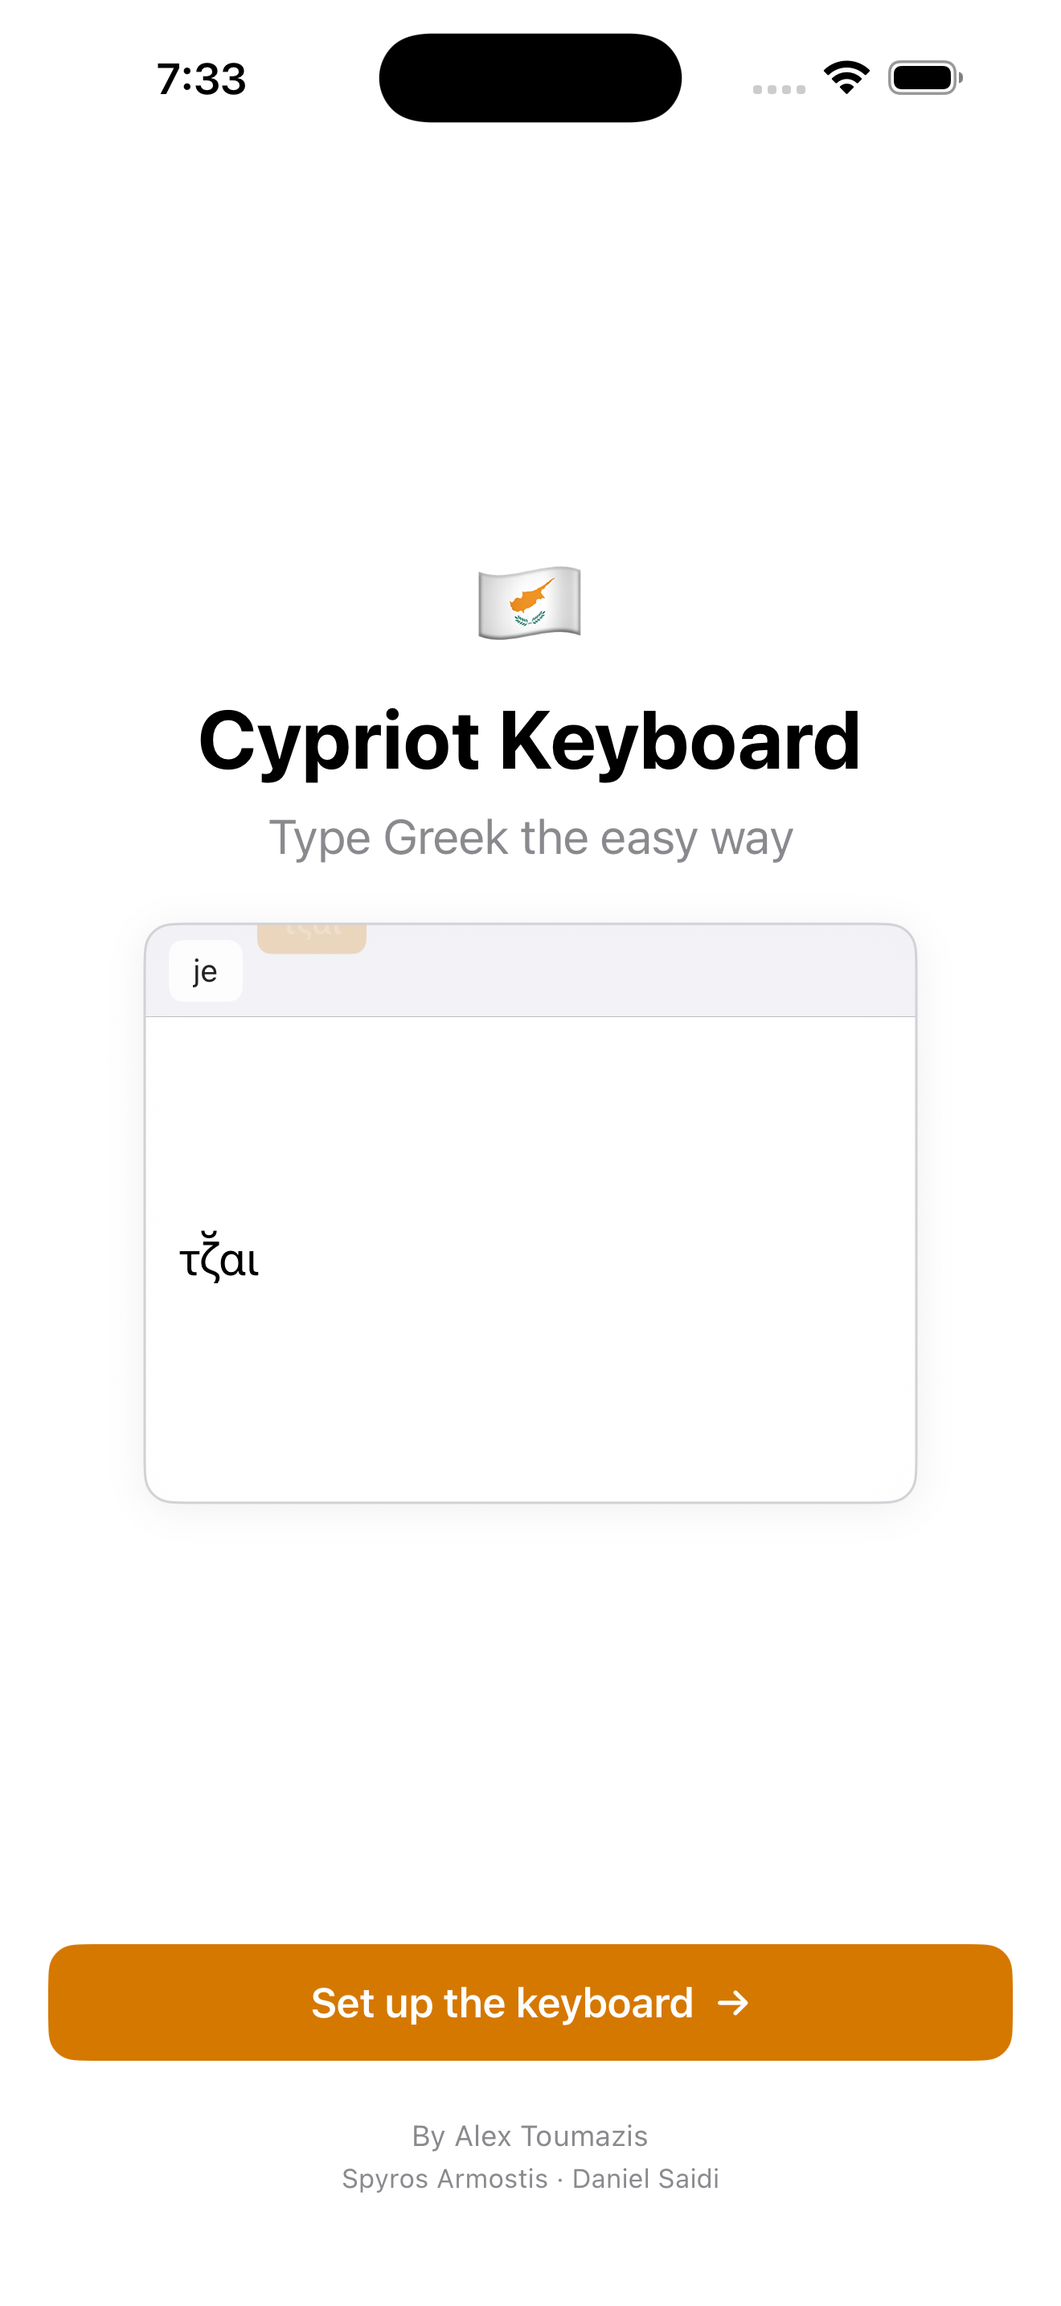
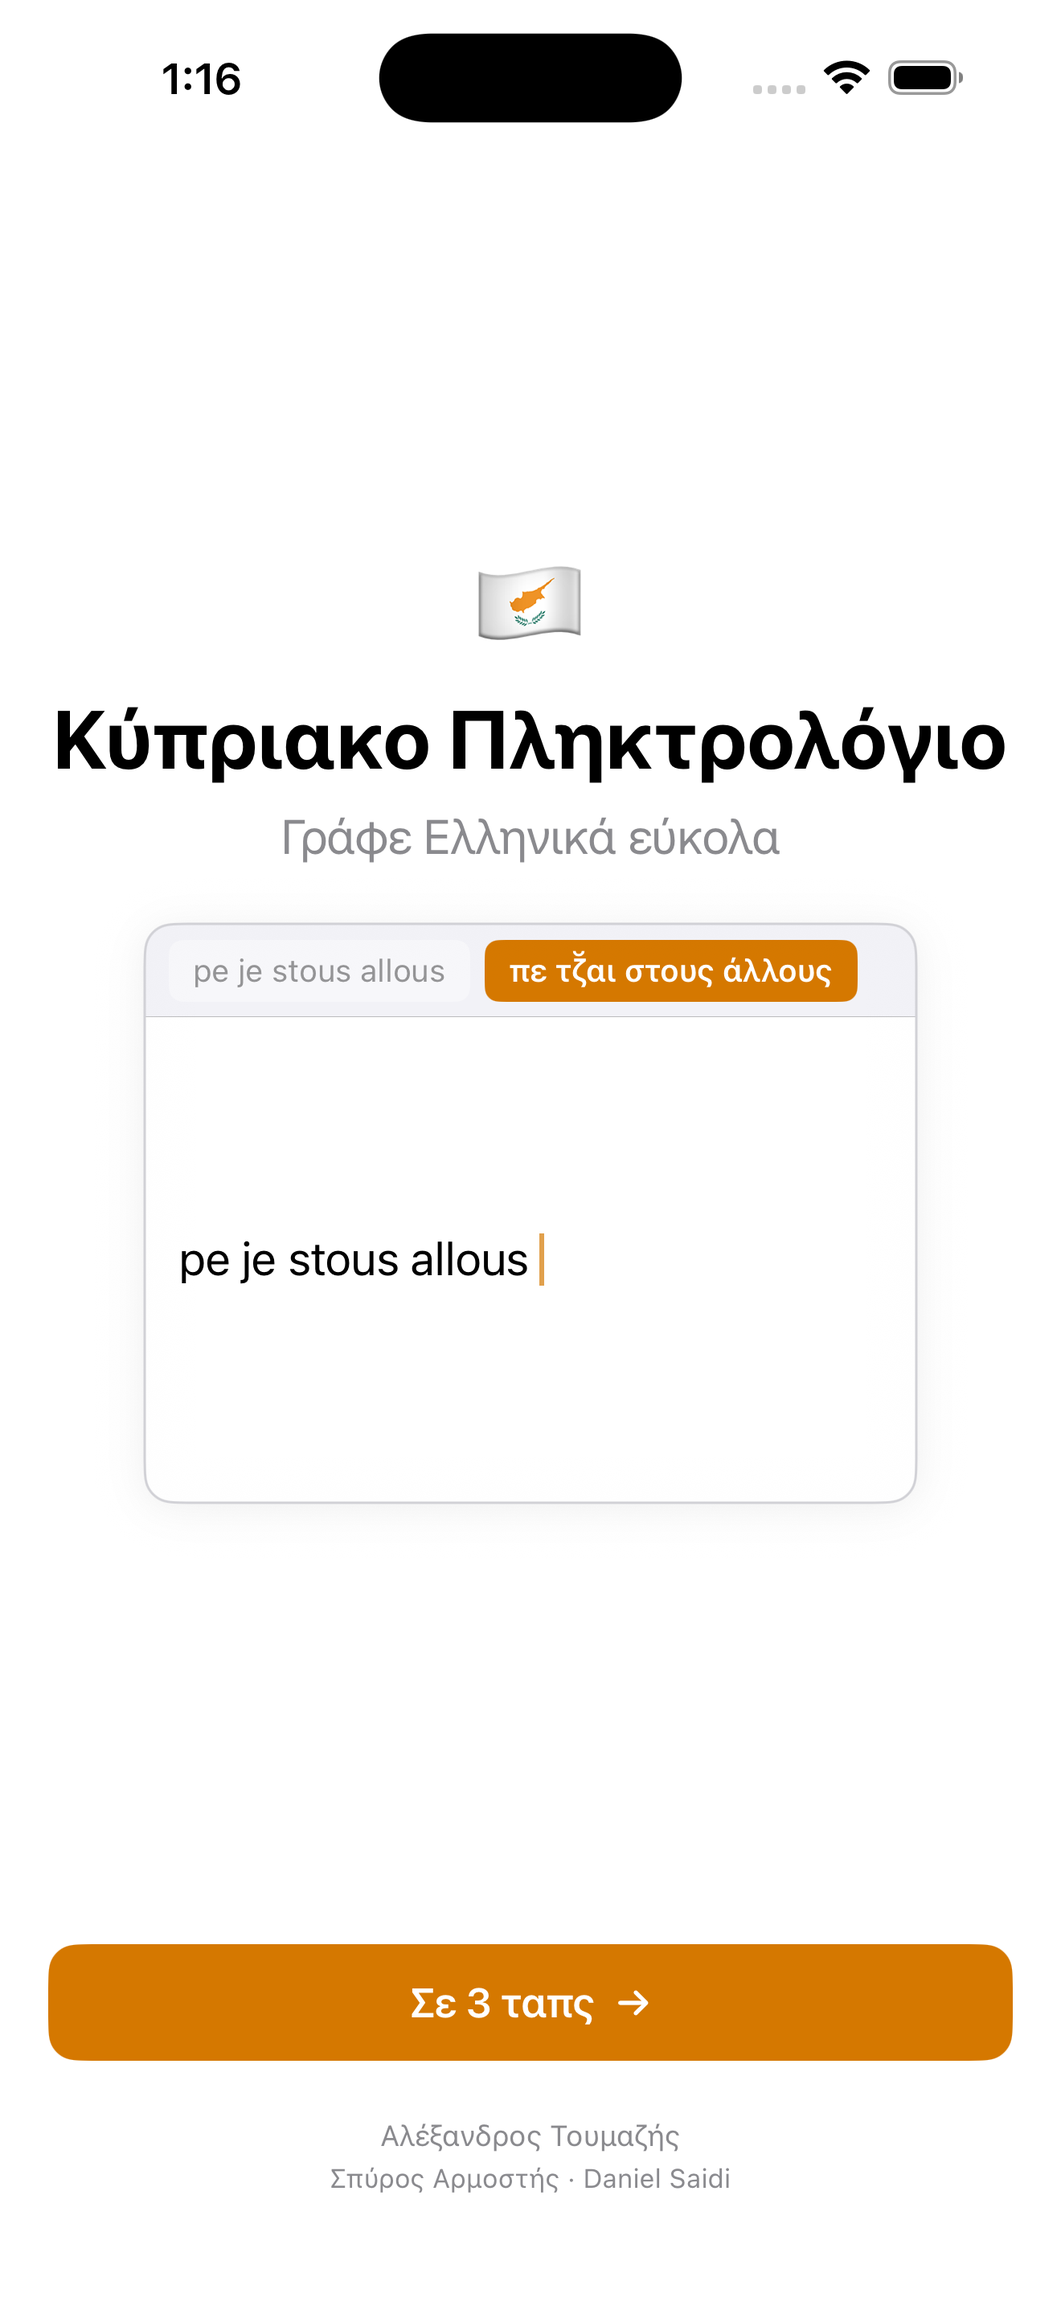
3-tap copy: bring back the "Install in 3 taps" framing — it's actually accurate
On-device testing confirmed: when UIApplication.openSettingsURLString
opens to Cypriot Keyboard's per-app Settings page, that page has a
"Keyboards" entry that lands directly on the keyboard toggle screen,
even pre-install. So the flow really is 3 taps:

  1. Tap "Install in 3 taps" in the app  → Settings → Κυπριακά page
  2. Tap "Keyboards"                      → keyboard toggle screen
  3. Toggle "Κυπριακό Keyboard" on        → done

(User-supplied on-device screenshots verified each step.)

The previous commit had softened the copy to "Set up the keyboard /
Add the keyboard" out of caution about the deep-link breakage. With the
real flow confirmed, restoring the punchier 3-tap promise.

Changes:
  • en.lproj welcome.cta: "Set up the keyboard" → "Install in 3 taps"
  • en.lproj install.title: "Add the keyboard" → "Install in 3 taps"
  • en.lproj install.step.{1,2,3}: rewritten to match the actual
    in-Settings flow (Tap Open Settings · Tap "Keyboards" · Toggle
    "Κυπριακό Keyboard" on)
  • el.lproj: same restructure in Cypriot dialect ("Σε 3 ταπς",
    "Άναψε το \"Κυπριακό Keyboard\"")
  • docs/index.html en + el panels: hero phone CTA back to 3-taps
    promise, "Under a minute" → "3 taps", how-it-works now matches
    the verified flow (Settings → Keyboards row → toggle)
  • app-store/copy/{en,el}.md "What's New" v1.9: brings back the
    three-tap install bullet
  • app-store/mockup: matching copy updates
[…]

diff --git a/docs/index.html b/docs/index.html
@@ -863,7 +863,7 @@ footer {
               <span class="replacement">Λευκωσία</span>
             </div>
           </div>
-          <div class="demo-cta">Set up the keyboard  →</div>
+          <div class="demo-cta">Install in 3 taps  →</div>
           <div class="demo-credit">By Alex Toumazis</div>
         </div>
       </div>
@@ -921,8 +921,8 @@ footer {
     </div>
     <div class="shot">
       <div class="shot-frame"><img src="./screenshots/postinstall-en.png" alt="Post install"></div>
-      <div class="shot-label">Try it instantly</div>
-      <div class="shot-sub">Demo + tour right after install</div>
+      <div class="shot-label">All set in 3 taps</div>
+      <div class="shot-sub">Try it the moment you install</div>
     </div>
   </div>
 </section>
@@ -932,39 +932,33 @@ footer {
   <div class="how-grid">
     <div>
       <div class="section-eyebrow">Setup</div>
-      <h2>Under a minute.</h2>
-      <p class="lead">Open the app, head to the Keyboards screen in Settings, add Κυπριακά, and the keyboard is yours wherever iOS lets you type — Messages, Mail, WhatsApp, Notes, Twitter, Slack.</p>
+      <h2>3 taps.</h2>
+      <p class="lead">Open the app, hand off to Settings, toggle on. The app then auto-detects you're set up and switches to a try-it screen.</p>
     </div>
     <ol class="steps">
       <li>
         <div class="step-num">1</div>
         <div class="step-content">
-          <h4>Open the app, tap Set up</h4>
-          <p>The button hands you off to iOS Settings.</p>
+          <h4>Tap <code>Install in 3 taps</code> in the app</h4>
+          <p>Hands you off to Settings, on the Cypriot Keyboard page.</p>
         </div>
       </li>
       <li>
         <div class="step-num">2</div>
         <div class="step-content">
-          <h4>In Settings: General → Keyboard → Keyboards</h4>
-          <p>Three taps to reach the Keyboards screen.</p>
+          <h4>Tap <code>Keyboards</code></h4>
+          <p>The fourth row down on the app's Settings page.</p>
         </div>
       </li>
       <li>
         <div class="step-num">3</div>
         <div class="step-content">
-          <h4>Add New Keyboard → <code>Κυπριακά</code></h4>
-          <p>Then come back to the app — it'll detect the install and switch to a try-it screen automatically.</p>
-        </div>
-      </li>
-      <li>
-        <div class="step-num">4</div>
-        <div class="step-content">
-          <h4>Tap 🌐 anywhere</h4>
-          <p>In any app, tap the globe icon on your keyboard to switch to Cypriot.</p>
+          <h4>Toggle <code>Κυπριακό Keyboard</code> on</h4>
+          <p>Come back to the app — it'll auto-detect the install and switch to a try-it screen with a feature tour.</p>
         </div>
       </li>
     </ol>
+    <p style="margin-top: 32px; font-size: 14px; color: var(--secondary);"><strong>One more step to actually use it:</strong> in any app, tap 🌐 on your keyboard to switch to Cypriot.</p>
   </div>
 </section>
 
@@ -1063,7 +1057,7 @@ footer {
               <span class="replacement">Λευκωσία</span>
             </div>
           </div>
-          <div class="demo-cta">Στήσε το πληκτρολόγιο  →</div>
+          <div class="demo-cta">Σε 3 ταπς  →</div>
           <div class="demo-credit">Αλέξανδρος Τουμαζής</div>
         </div>
       </div>
@@ -1109,8 +1103,8 @@ footer {
     </div>
     <div class="shot">
       <div class="shot-frame"><img src="./screenshots/postinstall-el.png" alt="Έτοιμο"></div>
-      <div class="shot-label">Δοκίμασέ το αμέσως</div>
-      <div class="shot-sub">Demo τζ̆αι ξενάγηση μετά την εγκατάσταση</div>
+      <div class="shot-label">Έτοιμο σε 3 ταπς</div>
+      <div class="shot-sub">Δοκίμασέ το αμέσως μετά την εγκατάσταση</div>
     </div>
     <div class="shot">
       <div class="shot-frame"><img src="./screenshots/ipad-en.png" alt="iPad"></div>
@@ -1124,39 +1118,33 @@ footer {
   <div class="how-grid">
     <div>
       <div class="section-eyebrow">Εγκατάσταση</div>
-      <h2>Σε ένα λεπτό.</h2>
-      <p class="lead">Άνοιξε την εφαρμογή, πήαινε στην οθόνη Πληκτρολογίων στις Ρυθμίσεις, πρόσθεσε τα Κυπριακά τζ̆αι το πληκτρολόγιο είναι σου παντού όπου γράφεις iOS — Messages, Mail, WhatsApp, Notes, Twitter, Slack.</p>
+      <h2>3 ταπς.</h2>
+      <p class="lead">Άνοιξε την εφαρμογή, πέρασε στις Ρυθμίσεις, άναψε το toggle. Η εφαρμογή ανιχνεύει μόνη της ότι εγκατέστησες τζ̆αι σε βκάλλει σε οθόνη δοκιμής.</p>
     </div>
     <ol class="steps">
       <li>
         <div class="step-num">1</div>
         <div class="step-content">
-          <h4>Άνοιξε την εφαρμογή τζ̆αι πάτα "Στήσε το πληκτρολόγιο"</h4>
-          <p>Το κουμπί σε βκάλλει στις iOS Ρυθμίσεις.</p>
+          <h4>Πάτα <code>Σε 3 ταπς</code> στην εφαρμογή</h4>
+          <p>Σε βκάλλει στις Ρυθμίσεις, στη σελίδα του Κυπριακού Πληκτρολογίου.</p>
         </div>
       </li>
       <li>
         <div class="step-num">2</div>
         <div class="step-content">
-          <h4>Στις Ρυθμίσεις: Γενικές → Πληκτρολόγιο → Πληκτρολόγια</h4>
-          <p>Τρία ταπς τζ̆αι είσαι στην οθόνη των πληκτρολογίων.</p>
+          <h4>Πάτα <code>Keyboards</code></h4>
+          <p>Η τέταρτη γραμμή στη σελίδα του app στις Ρυθμίσεις.</p>
         </div>
       </li>
       <li>
         <div class="step-num">3</div>
         <div class="step-content">
-          <h4>Προσθήκη νέου πληκτρολογίου → <code>Κυπριακά</code></h4>
-          <p>Έλα μετά πίσω στην εφαρμογή — εν να σου δείξει αυτόματα την οθόνη "Δοκίμασε".</p>
-        </div>
-      </li>
-      <li>
-        <div class="step-num">4</div>
-        <div class="step-content">
-          <h4>Πάτα 🌐 οπουδήποτε</h4>
-          <p>Σε όποια εφαρμογή γράφεις, πάτα τη σφαίρα στο πληκτρολόγιο για να αλλάξεις στα Κυπριακά.</p>
+          <h4>Άναψε το <code>Κυπριακό Keyboard</code></h4>
+          <p>Έλα μετά πίσω στην εφαρμογή — εν να σου δείξει αυτόματα την οθόνη "Δοκίμασε" με ξενάγηση.</p>
         </div>
       </li>
     </ol>
+    <p style="margin-top: 32px; font-size: 14px; color: var(--secondary);"><strong>Ένα ακόμα βήμα για να το χρησιμοποιήσεις:</strong> σε όποια εφαρμογή γράφεις, πάτα 🌐 για να αλλάξεις στα Κυπριακά.</p>
   </div>
 </section>
 

diff --git a/app-store/mockup/index.html b/app-store/mockup/index.html
@@ -495,7 +495,7 @@
         A fresh first-launch experience:
         <ul>
           <li>New welcome screen with a live demo of Greeklish autocorrect.</li>
-          <li>Clearer setup walkthrough — step-by-step path from app to Settings to active keyboard.</li>
+          <li>Three-tap install — open Settings, tap Keyboards, toggle on. App auto-detects the install.</li>
           <li>Try-it textfield right after install, plus a tour of σ̆ Cypriot characters and automatic accents.</li>
           <li>Stricter privacy: Hunspell removed, the keyboard now ships with a single optimised dictionary engine. Smaller download, same results.</li>
         </ul>
@@ -525,7 +525,7 @@
         </div>
         <div class="frame-card">
           <div class="iphone-frame"><img src="../screenshots/raw/postinstall-en-iphone17promax.png" alt=""></div>
-          <div class="frame-caption">Try it instantly</div>
+          <div class="frame-caption">All set in 3 taps</div>
           <div class="frame-caption-sub">Post install state</div>
         </div>
       </div>
@@ -641,7 +641,7 @@
         Ολοκαίνουργια εμπειρία πρώτης χρήσης:
         <ul>
           <li>Νέα οθόνη καλωσορίσματος με ζωντανό demo του Greeklish autocorrect.</li>
-          <li>Πιο καθαρή ξενάγηση εγκατάστασης — βήμα-βήμα από την εφαρμογή στις Ρυθμίσεις τζ̆αι στο ενεργό πληκτρολόγιο.</li>
+          <li>Εγκατάσταση σε 3 ταπς — άνοιξε Ρυθμίσεις, πάτα Keyboards, άναψε το toggle. Η εφαρμογή το ανιχνεύει αυτόματα.</li>
           <li>Πεδίο για δοκιμή αμέσως μετά την εγκατάσταση, τζ̆αι ξενάγηση στους Κυπριακούς χαρακτήρες σ̆.</li>
           <li>Πιο αυστηρή ιδιωτικότητα: αφαιρέθηκε το Hunspell, το πληκτρολόγιο τρέχει τώρα με μία ενιαία βελτιστοποιημένη μηχανή λεξικού.</li>
         </ul>

diff --git a/app-store/screenshots/raw/README.md b/app-store/screenshots/raw/README.md
@@ -23,9 +23,9 @@ App Store Connect groups by display size class. Apple downsamples for smaller cl
 | iPhone 16e / 17      | 1170×2532     | 6.1"                    |
 | iPad Pro 13" (M4)    | 2064×2752     | iPad 13"                |
 
-## Current contents (captured 2026-05-10)
+## Current contents (captured 2026-05-12)
 
-All captured at the "hold replaced" phase of the demo loop animation (clean frame, no transition overlap), against the v1.9 onboarding with the **new copy**: hero CTA "Set up the keyboard →" (was "Install in 3 taps"), install sheet "Add the keyboard" with breadcrumb steps, and `UIApplication.openSettingsURLString` as the underlying deep link. **Re-capture if the install copy changes again** — the previous v1.8/v1.9-pre captures had the old "Install in 3 taps" text and are obsolete.
+All captured at the "hold replaced" phase of the demo loop animation (clean frame, no transition overlap), against the v1.9 onboarding with the **3-tap copy**: hero CTA "Install in 3 taps →", install sheet "Install in 3 taps" with the verified path (Open Settings · Tap Keyboards · Toggle Κυπριακό Keyboard on), and `UIApplication.openSettingsURLString` as the underlying deep link. Real-device testing confirmed the 3-tap promise — Apple shows a "Keyboards" entry directly on the app's per-app Settings page that lets users toggle the keyboard on without further navigation.
 
 | File                                          | State        | Locale | Device                | Demo phrase shown |
 |-----------------------------------------------|--------------|--------|-----------------------|-------------------|
@@ -64,9 +64,11 @@ DEVELOPER_DIR=$DEV xcrun simctl io booted screenshot \
 
 To capture the **post-install** state, the Cypriot keyboard must be added in iOS Settings on that simulator first (Settings → General → Keyboard → Keyboards → Add → Κυπριακά). The state is per-simulator, so once added it persists.
 
-## Still missing
+## Still missing or pending re-capture against the 3-tap copy
 
-- **iPhone 17 Pro Max (6.9") post-install captures** — the sim was erased to capture welcome state, so it no longer has the Cypriot keyboard installed. Re-add the keyboard manually (Settings → General → Keyboard → Keyboards → Add → Κυπριακά) on that sim, then re-launch and capture for both en and el.
-- **iPad Pro 13" post-install** — needs the Cypriot keyboard added to the iPad sim manually (simctl can't tap UI).
-- **Install sheet open state** — needs a tap mid-launch (simctl has no tap subcommand). Easiest by hand: launch app in the simulator, tap "Set up the keyboard" CTA to open the sheet, then run `xcrun simctl io booted screenshot ...` from another terminal.
+- **iPhone 16e (6.1") welcome captures** — sim display didn't initialise during the May 12 batch run (every `simctl io screenshot` against it returned a 0-byte file). Existing files in this folder for that device still have the old "Set up the keyboard" CTA. Re-capture once the sim display is back: shut down + reboot the sim, ensure Simulator.app is foregrounded showing it, then run the capture script.
+- **iPad Pro 13" welcome captures** — same display issue as 16e. Same fix.
+- **iPhone 17 (6.1") post-install captures** — same display issue. Existing files don't show the welcome CTA so they're still visually accurate even pre-fix.
+- **iPhone 17 Pro Max (6.9") post-install** — sim was erased to capture welcome state, so it no longer has the Cypriot keyboard installed. Re-add the keyboard manually (Settings → General → Keyboard → Keyboards → Add → Κυπριακά) on that sim, then re-launch and capture for both en and el.
+- **Install sheet open state** — needs a tap mid-launch (simctl has no tap subcommand). Easiest by hand: launch app in the simulator, tap "Install in 3 taps" CTA to open the sheet, then run `xcrun simctl io booted screenshot ...` from another terminal.
 - **el variants of the `je` and `allous` phrase carousel** — only `Lefkosia` was captured in el. The other two are en only.

diff --git a/app-store/copy/el.md b/app-store/copy/el.md
@@ -67,7 +67,7 @@ greek,greeklish,ελληνικά,κύπρος,κυπριακά,τόνοι,αρμ
 Ολοκαίνουργια εμπειρία πρώτης χρήσης:
 
   • Νέα οθόνη καλωσορίσματος με ζωντανό demo που εναλλάσσει Greeklish, Κυπριακή διάλεκτο τζ̆αι ολόκληρες φράσεις.
-  • Πιο καθαρή ξενάγηση εγκατάστασης — βήμα-βήμα από την εφαρμογή στις Ρυθμίσεις τζ̆αι στο ενεργό πληκτρολόγιο.
+  • Εγκατάσταση σε 3 ταπς — άνοιξε Ρυθμίσεις, πάτα Keyboards, άναψε το toggle. Η εφαρμογή ανιχνεύει μόνη της τζ̆αι σε βκάλλει σε οθόνη δοκιμής.
   • Πεδίο για δοκιμή αμέσως μετά την εγκατάσταση, τζ̆αι ξενάγηση στους Κυπριακούς χαρακτήρες σ̆ τζ̆αι στους αυτόματους τόνους.
   • Πιο αυστηρή ιδιωτικότητα: αφαιρέθηκε το Hunspell, το πληκτρολόγιο τρέχει τώρα με μία ενιαία βελτιστοποιημένη μηχανή λεξικού. Μικρότερο download, ίδιο αποτέλεσμα.
 ```
